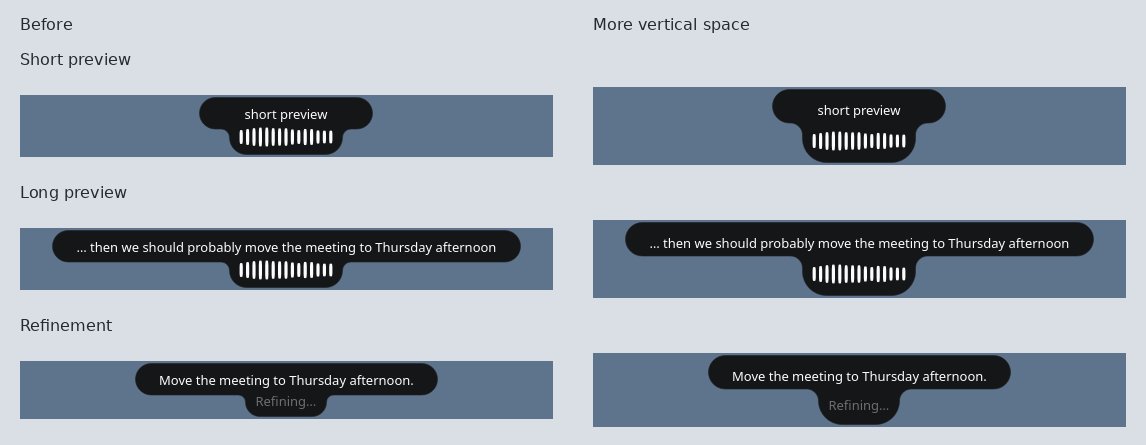
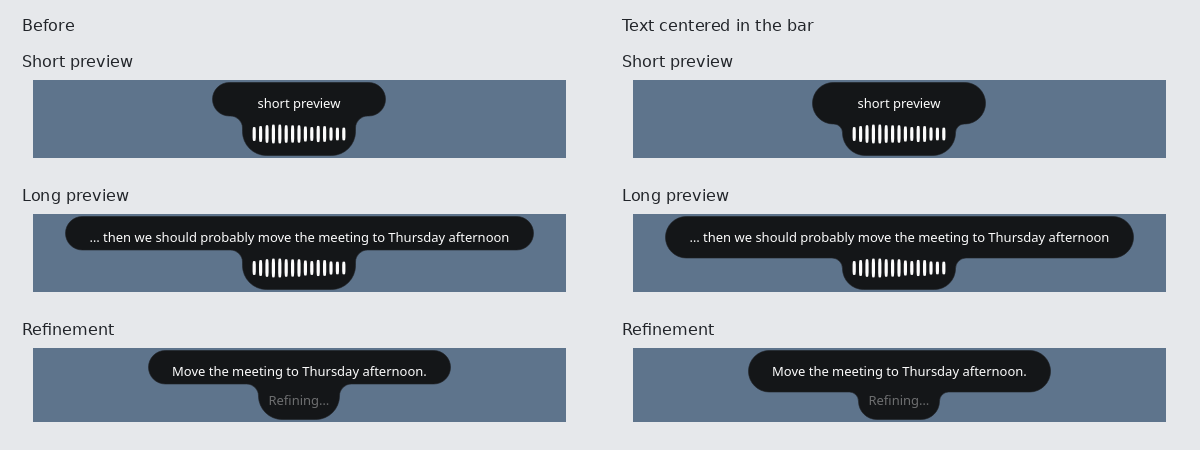
Refresh Linux screenshots with the centered preview bar

diff --git a/docs/img/linux-unified-popup/README.md b/docs/img/linux-unified-popup/README.md
@@ -1,4 +1,4 @@
-Before-and-after captures of the real Qt `TranscriberPopup`, using the same input text and simulated microphone levels. Before source is `b67b7fc`; after source is `8ac81d3`, adding the same vertical padding as the native macOS and Windows popups to the accepted Linux contour. The after captures show the latest connected outline with rounded cutouts and shimmering sign-in renewal. Both use Qt 6.10.2, the Breeze widget style, `QT_QPA_PLATFORM=offscreen`, `QT_QPA_PLATFORMTHEME=kde`, and an isolated `XDG_CONFIG_HOME` containing BreezeLight or BreezeDark colours.
+Before-and-after captures of the real Qt `TranscriberPopup`, using the same input text and simulated microphone levels. Before source is `b67b7fc`; after source is `f14ba93`, which adds the native popups' vertical padding and centers the preview text inside the contour's wide bar. The after captures show the latest connected outline with rounded cutouts and shimmering sign-in renewal. Both use Qt 6.10.2, the Breeze widget style, `QT_QPA_PLATFORM=offscreen`, `QT_QPA_PLATFORMTHEME=kde`, and an isolated `XDG_CONFIG_HOME` containing BreezeLight or BreezeDark colours.
 
 The comparison sheets arrange the original PNGs without resizing them. The blue-grey backdrop is added to make the transparent popup visible; it is not an app colour or a desktop screenshot. Animation frames are illustrative, not pixel-identical timing comparisons.
 
@@ -6,4 +6,4 @@ Coverage: listening with no preview, short and long live previews, transcribing,
 
 The additional `before-large-font-*` / `after-large-font-*` pairs use a 48-point application font on Breeze Dark. They verify that the shared capsule preserves the baseline's readable status and receipt at large font sizes. The final popup positioning test also checks that a long error remains inside the screen with the normal bottom clearance.
 
-The preview text sits above the compact waveform or processing label. The lower contour hugs the painted content with rounded transitions. All three platforms now use 12 pixels of top padding, an 8-pixel gap between preview and lower strip, and 8 pixels of bottom padding. The spacing comparisons show the earlier contour at `780a9a3` against this roomier layout.
+The preview text sits above the compact waveform or processing label. The lower contour hugs the painted content with rounded transitions. All three platforms now use 12 pixels of top padding, an 8-pixel gap between preview and lower strip, and 8 pixels of bottom padding. The contour's shoulder now sits as far below the preview text as the pill's top sits above it, so the bar reads evenly padded; the spacing comparisons show the earlier bottom-tight bar at `961cc40` against this centered layout.
